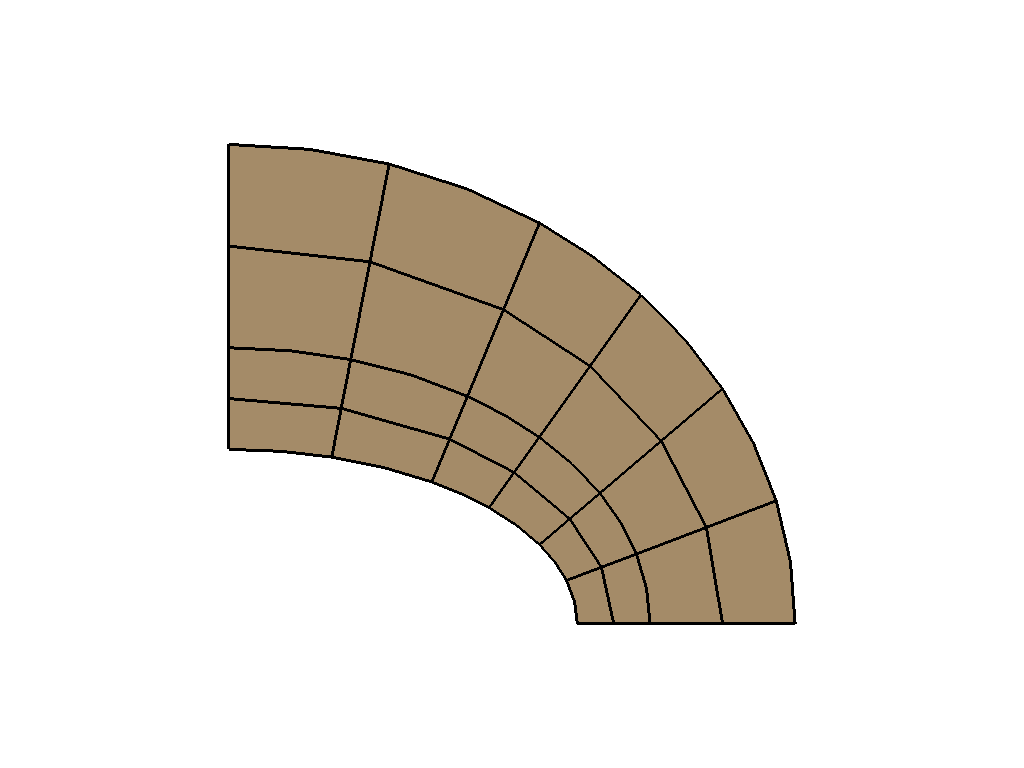
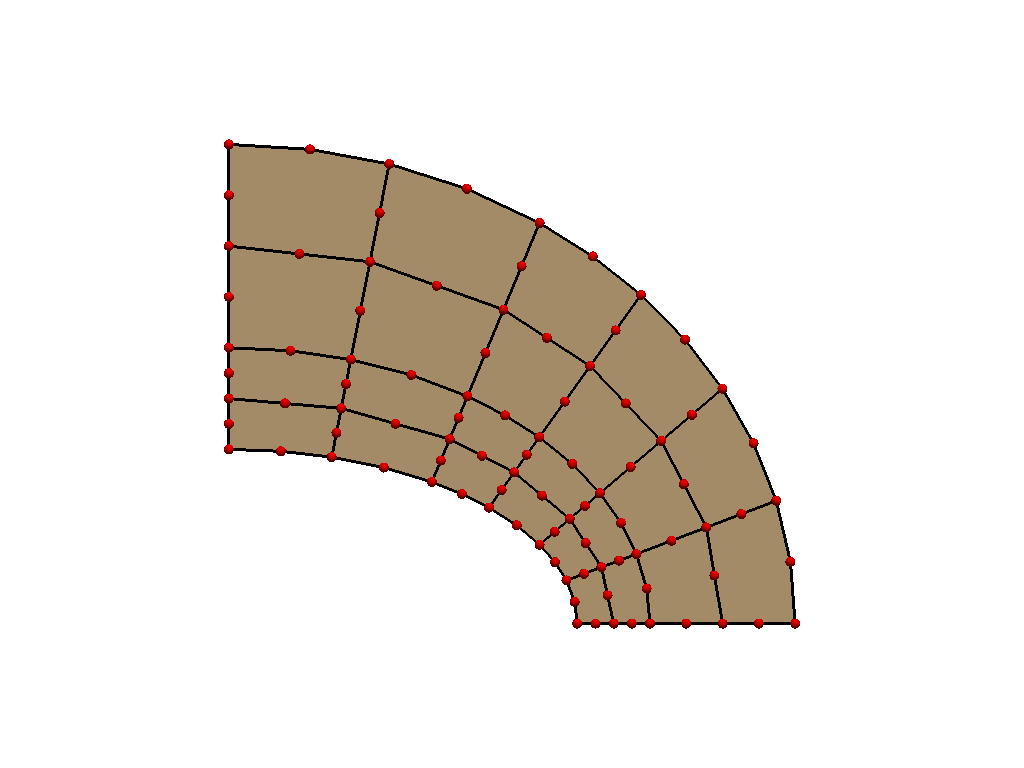
Add red points

diff --git a/benchmarks_data/structure/elliptic_membrane/GetFEM/mesh/fine-quadrilateron-2d.py b/benchmarks_data/structure/elliptic_membrane/GetFEM/mesh/fine-quadrilateron-2d.py
@@ -377,4 +377,7 @@ plotter.add_mesh(
     line_width=3,
     color="black",
 )
+plotter.add_points(
+    mesh.points, render_points_as_spheres=True, point_size=10.0, color="red"
+)
 plotter.show(cpos="xy", screenshot="fine-quadrilateron-2d.png")
